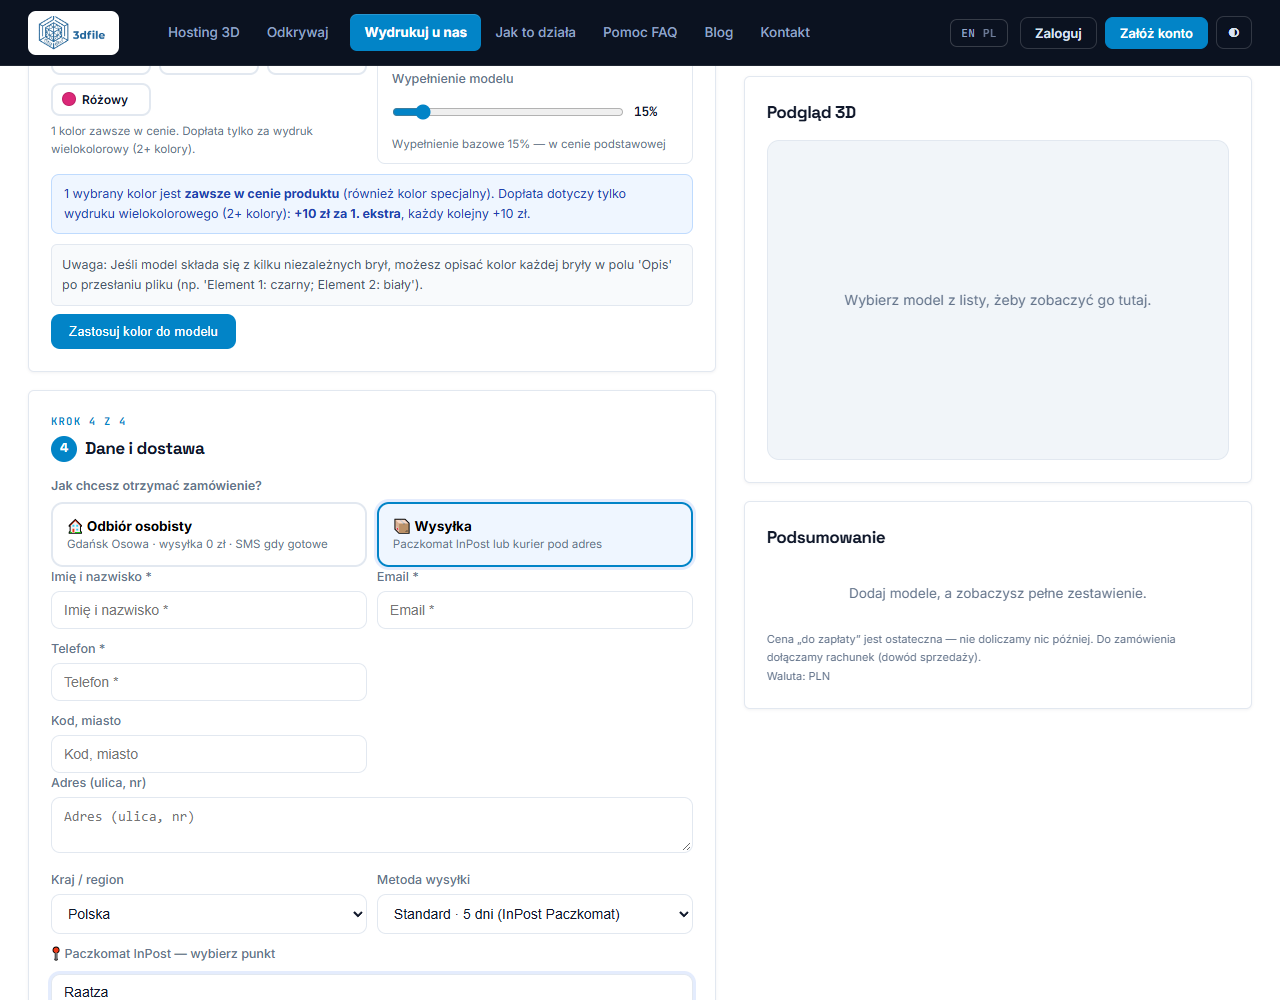
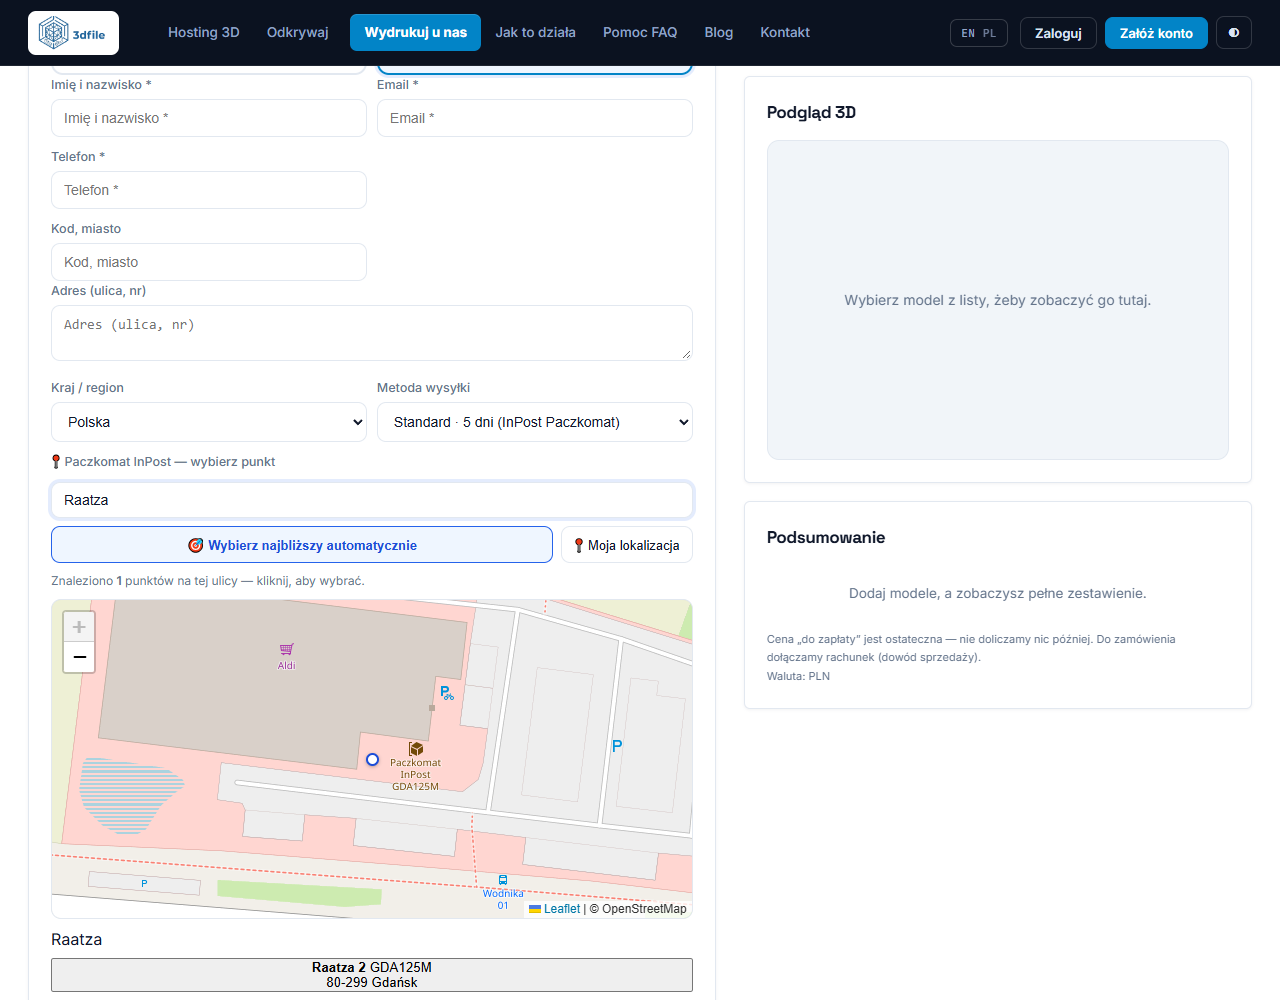
fix(zamow): keepStatus must also guard the loading message
The guard only covered the result line; 'Szukam...' was still written
unconditionally, so the error was replaced by a progress message and then
by nothing. Both writes now respect the caller.

diff --git a/frontend/order.html b/frontend/order.html
@@ -9,7 +9,7 @@
         y=l.getElementsByTagName(r)[0];y.parentNode.insertBefore(t,y);
     })(window, document, "clarity", "script", "ypigm7bngb");
 </script>
-<script>window.__APP_V='115';(function(){try{var k='appV',s=sessionStorage.getItem(k);if(s&&s!=='115'){sessionStorage.setItem(k,'115');if(window.caches&&caches.keys){caches.keys().then(function(a){return Promise.all(a.map(function(n){return caches.delete(n)}))}).then(function(){location.reload()});return}}sessionStorage.setItem(k,'110')}catch(e){}})();</script>
+<script>window.__APP_V='116';(function(){try{var k='appV',s=sessionStorage.getItem(k);if(s&&s!=='116'){sessionStorage.setItem(k,'116');if(window.caches&&caches.keys){caches.keys().then(function(a){return Promise.all(a.map(function(n){return caches.delete(n)}))}).then(function(){location.reload()});return}}sessionStorage.setItem(k,'110')}catch(e){}})();</script>
 <script>try{var _t=localStorage.getItem("mt_theme")||"light";if(_t==="dark")document.documentElement.setAttribute("data-theme","dark");}catch(e){}</script>
 <meta charset="UTF-8">
 <meta name="viewport" content="width=device-width, initial-scale=1">
@@ -719,7 +719,7 @@ function refreshMatSel(){ var m=(selIdx>=0)?CART[selIdx].material:null; document
   function searchPaczkomatCity(city, keepStatus){
     PCZ_CITY=city||'Gdańsk';
     var box=document.getElementById('paczkomatList'); if(!box) return;
-    pczStatus('Szukam…');
+    if(!keepStatus) pczStatus('Szukam…');
     fetch('/api/inpost/points?q='+encodeURIComponent(PCZ_CITY)+'&t='+Date.now())
       .then(function(r){return r.json();}).then(function(d){
         PCZ_ITEMS=(d&&d.items)||[]; PCZ_CITY=(d&&d.city)||PCZ_CITY;
